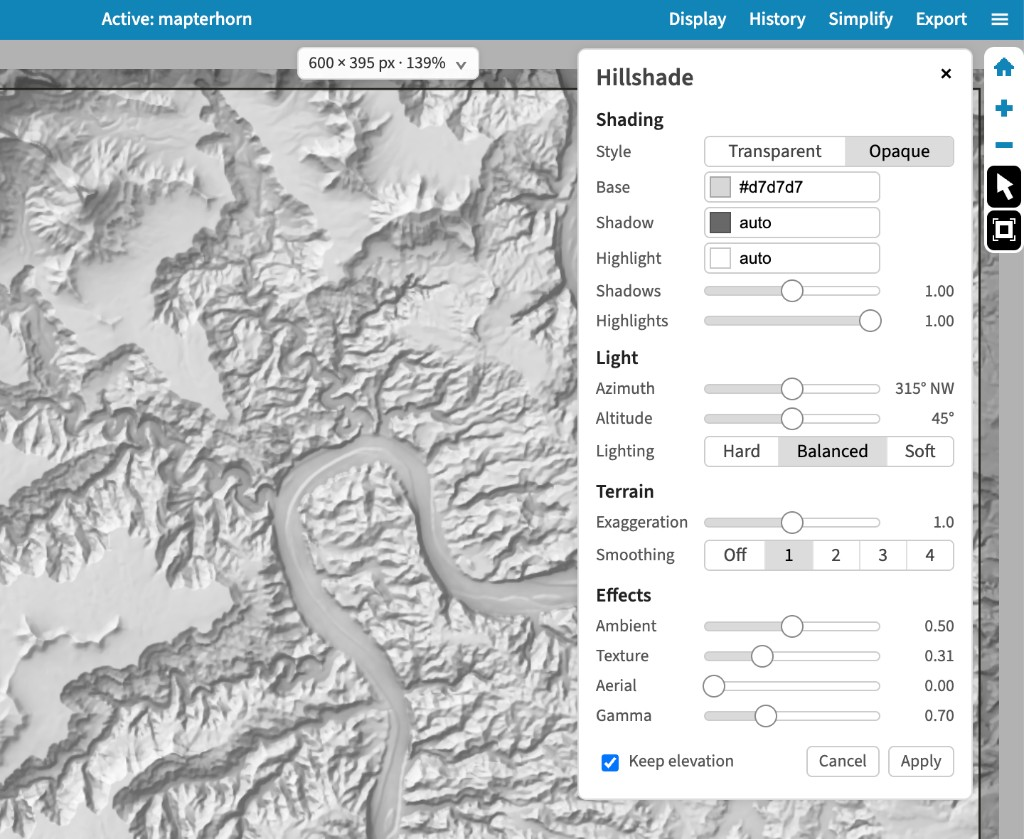
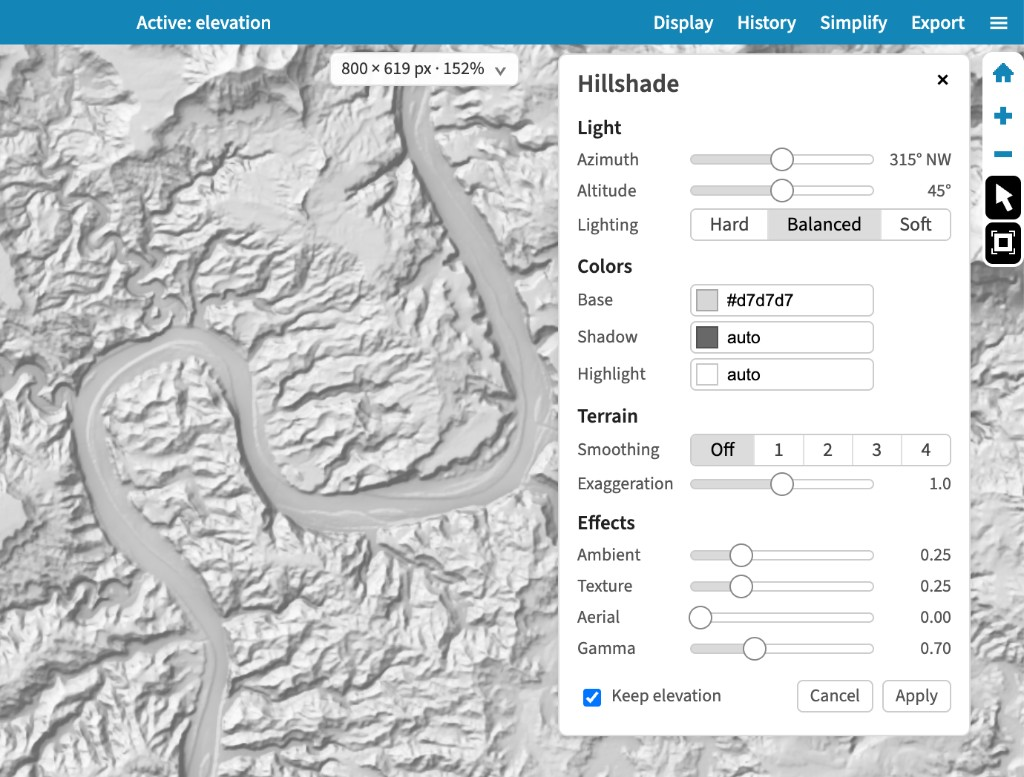
Simplify the hillshade panel

diff --git a/docs/guides/shaded-relief.md b/docs/guides/shaded-relief.md
@@ -87,20 +87,7 @@ There are two ways to get started.
 
 Select the elevation layer and choose **hillshade** from its options menu. The hillshade panel opens, and the map shows a live preview of the shading. Use the panel's controls to customize your hillshade and finalize it by clicking **Apply**.
 
-![The hillshade panel, with Shading, Light, Terrain and Effects controls, beside a grayscale preview of a hillshade of a river canyon](/docs/images/shaded-relief-hillshade-panel.jpg)
-
-#### Shading: opaque or transparent
-
-The panel's **Style** setting controls how the hillshade is drawn.
-
-- **Opaque** colors every pixel, running from a *shadow* color through a *base* color, which is the color of flat ground, to a *highlight* color.
-- **Transparent** uses translucent black shadows and white highlights, so the layers below the hillshade show through. Flat ground is fully transparent.
-
-For the most control over how a hillshade is combined with another layer, make it opaque and use the **blend hillshade** panel (see [part two](#step-two-blend-the-hillshade-with-the-image)).
-
-**Making a colored hillshade.** You can use an opaque hillshade with custom shadow, base and highlight colors as a simple background layer for a map. Picking a cool shadow color and a warm highlight color gives the shading a hand-painted look, especially when smoothing is added.
-
-![The same terrain in the Dolomites in three diagonal bands: a hillshade with blue shadows and pale yellow highlights in the upper left, a pale warm-gray hillshade in the middle, and a hillshade with violet shadows and peach highlights in the lower right](/docs/images/shaded-relief-colored-hillshade.jpg)
+![The hillshade panel, with Light, Colors, Terrain and Effects controls, beside a grayscale preview of a hillshade of a winding river canyon](/docs/images/shaded-relief-hillshade-panel.jpg)
 
 #### Light
 
@@ -108,10 +95,20 @@ For the most control over how a hillshade is combined with another layer, make i
 - **Altitude** is the angle of the light above the horizon (default 45°, a common convention). Mapshaper's hillshade function doesn't cast shadows. Altitude changes the tones of slopes rather than the length of shadows.
 - **Lighting** sets the fill light. **Hard** uses the main light alone, **Balanced** (the default) adds fainter fill lights around it, and **Soft** adds still more.
 
+#### Colors
+
+The hillshade's tones run from a **Shadow** color through a **Base** color, which is the color of flat ground, to a **Highlight** color. By default, the shadow and highlight colors are *auto*: a darker shade and a lighter tint of the base color. To combine the hillshade with imagery or a tinted raster, use the **blend hillshade** panel (see [part two](#step-two-blend-the-hillshade-with-the-image)).
+
+**Making a colored hillshade.** You can use a hillshade with custom shadow, base and highlight colors as a simple background layer for a map. Picking a cool shadow color and a warm highlight color gives the shading a hand-painted look, especially when smoothing is added.
+
+![The same terrain in the Dolomites in three diagonal bands: a hillshade with blue shadows and pale yellow highlights in the upper left, a pale warm-gray hillshade in the middle, and a hillshade with violet shadows and peach highlights in the lower right](/docs/images/shaded-relief-colored-hillshade.jpg)
+
+The panel makes opaque hillshades. For a transparent hillshade, with translucent shadows and highlights, to stack over vector layers or use in other software, run [`-hillshade`](/docs/reference.html#-hillshade) in the console.
+
 #### Terrain
 
-- **Exaggeration** adjusts the vertical scale of the terrain. The slider is centered on an automatic value based on the scale of the map (small-scale maps get more exaggeration).
 - **Smoothing** (Off, 1-4) removes noisy detail while keeping major landforms sharp. Mapshaper's smoothing function adapts to the terrain, smoothing more or less according to the average slope in the immediate area. Smoothing changes only the hillshade; to smooth elevations for other uses, like contours or tints, use the [`-smooth-terrain`](/docs/reference.html#-smooth-terrain) or [`-blur`](/docs/reference.html#-blur) console command. The figure below shows the difference between no smoothing and maximum smoothing.
+- **Exaggeration** adjusts the vertical scale of the terrain. The slider is centered on an automatic value based on the scale of the map (small-scale maps get more exaggeration).
 
 ![Glaciated mountains in the Chugach range of Alaska, with no smoothing in the upper left and smoothing 4 in the lower right, divided by a diagonal line; the smoothed side has less fine detail, while the main ridges and valleys stay sharp](/docs/images/shaded-relief-smoothing-compare.jpg)
 

diff --git a/CHANGELOG.md b/CHANGELOG.md
@@ -1,3 +1,6 @@
+v0.8.12
+* [web] Simplified the hillshade panel.
+
 v0.8.11
 * [web] The hillshade panel has a Bathymetry setting for elevation rasters with values below 0: Shade, or Flatten, which flattens the sea floor.
 * Renamed the projections derived from Buckminster Fuller's famous Airocean world map. `airocean` (gnomonic facets, formerly `dymaxion2`) matches PROJ's `+proj=airocean`, including its `+orient` parameter and its handling of ellipsoids. `airocean2` (Gray-Fuller facets, formerly `dymaxion`) uses the same layout. Both are horizontal by default.
